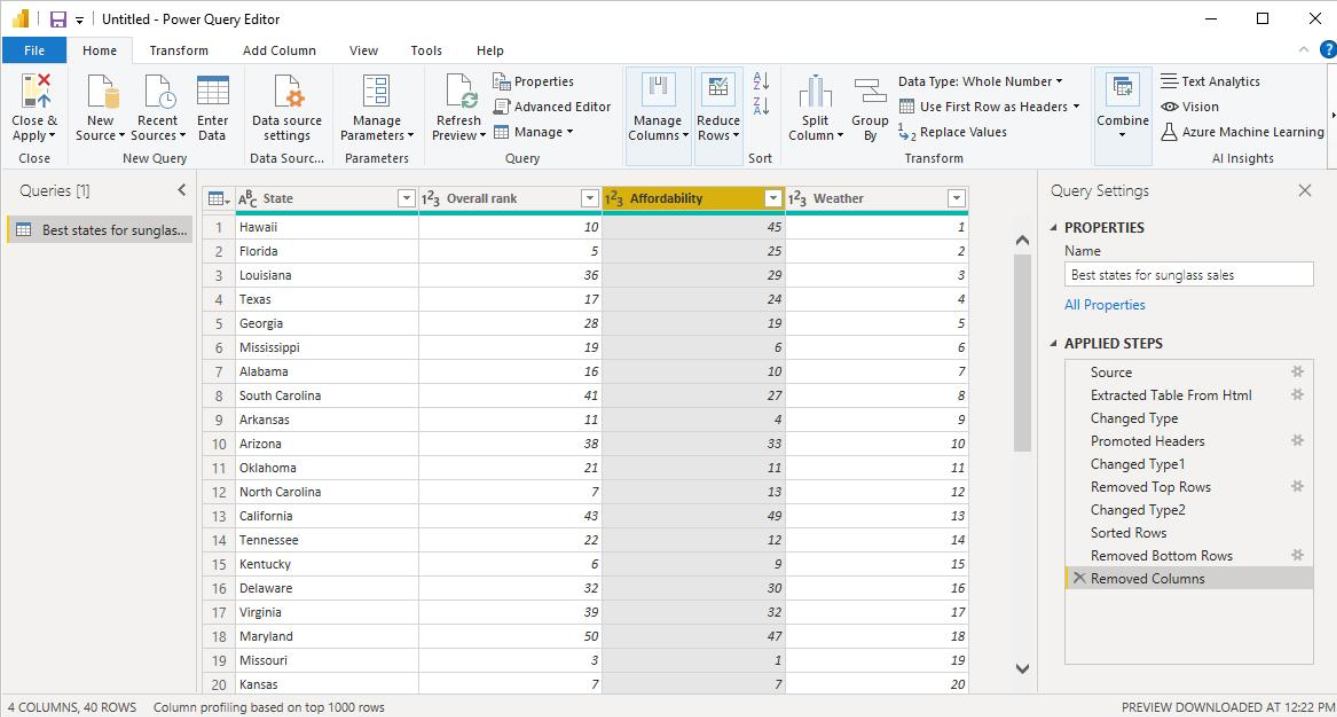
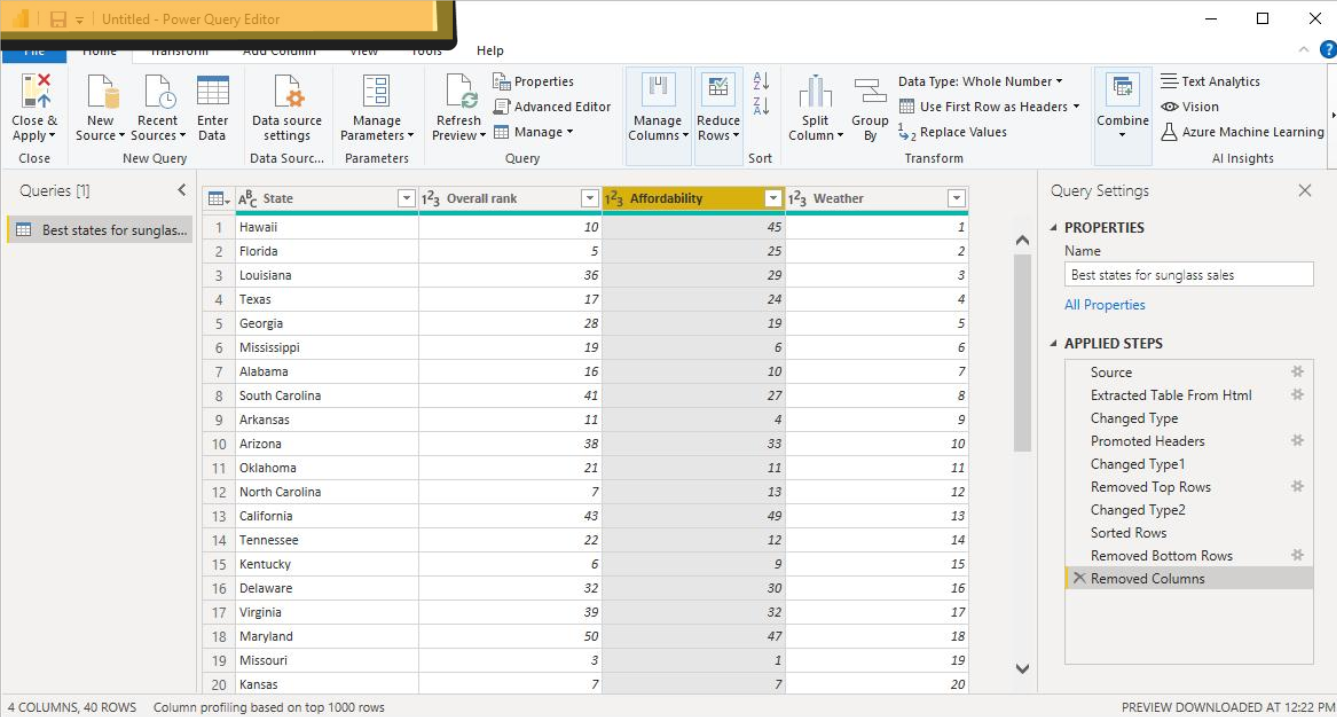
GITBOOK-346: No subject

Changed region(s): [[0.0, 0.0, 0.368, 0.0921]]

diff --git a/python-for-data-analytics/power-bi/power-query-editor.md b/python-for-data-analytics/power-bi/power-query-editor.md
@@ -2,8 +2,6 @@
 
 Power Query Editor is a tool in Power BI used to clean, transform, and prepare data before loading it into Power B&#x49;**.** In this place, we fix, clean, and organize data before creating reports and dashboards.
 
-<figure><img src="../../.gitbook/assets/P_qwery.png" alt=""><figcaption></figcaption></figure>
-
 #### What Can We Do in the Power Query Editor?
 
 * Create headers
@@ -15,4 +13,51 @@ Power Query Editor is a tool in Power BI used to clean, transform, and prepare d
 * Split or merge columns
 * Replace values
 * Handle missing data
+
+<figure><img src="../../.gitbook/assets/P_qwery.png" alt=""><figcaption></figcaption></figure>
+
+### Change Data Type and Data Clearing & Filtration&#x20;
+
+Clearing data means removing unnecessary rows, columns, or errors from the dataset to make it clean and ready for analysis.
+
+**Common data cleaning tasks:**
+
+* Remove unwanted columns.
+* Remove blank rows.
+* Remove duplicate records.
+* Replace or remove errors.
+* Change incorrect data types.
+* Rename columns for better understanding.
+
+<figure><img src="../../.gitbook/assets/Column_Name error.png" alt=""><figcaption></figcaption></figure>
+
+
+
+To remove the rows, select Remove Top Rows from the Home menu.
+
+Home Menu  ----->  Remove Rows -----> Remove Top Rows -----> Enter Number of Rows -----> OK
+
+
+
+<figure><img src="../../.gitbook/assets/Remove row.png" alt=""><figcaption></figcaption></figure>
+
+<figure><img src="../../.gitbook/assets/Select row no.png" alt=""><figcaption></figcaption></figure>
+
+
+
+"Create First Line as Header" means converting the first row of data into column names so that Power BI can identify each column correctly.
+
+<p align="center">Home Menu -----> Use First Row as Header</p>
+
+<figure><img src="../../.gitbook/assets/First row as header.png" alt=""><figcaption></figcaption></figure>
+
+
+
+
+
+
+
+
+
+
 